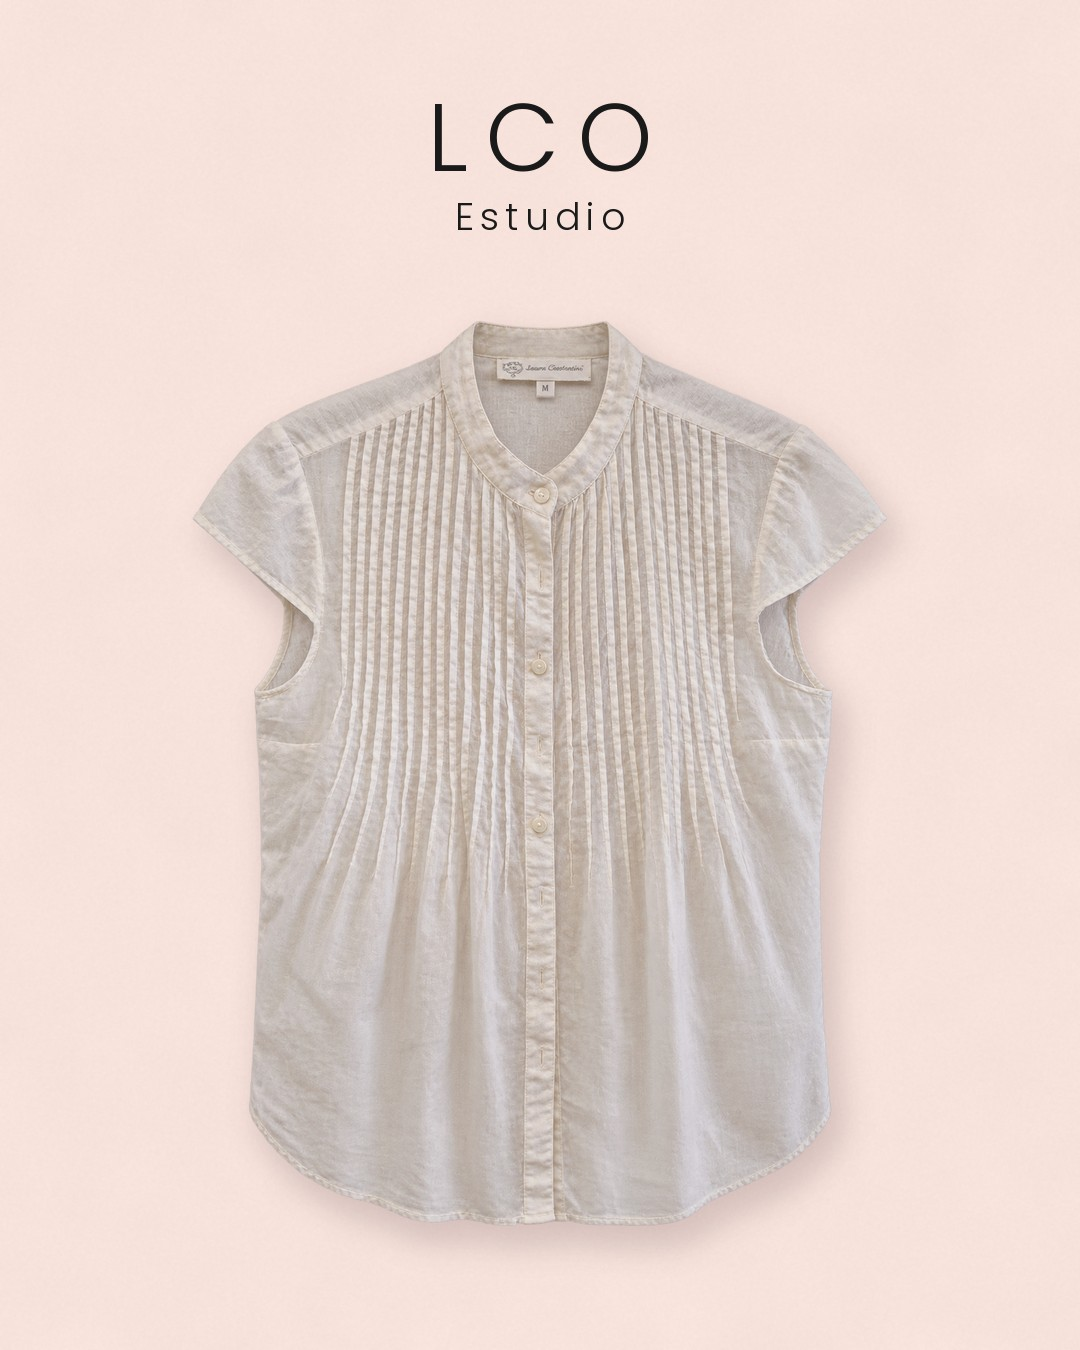
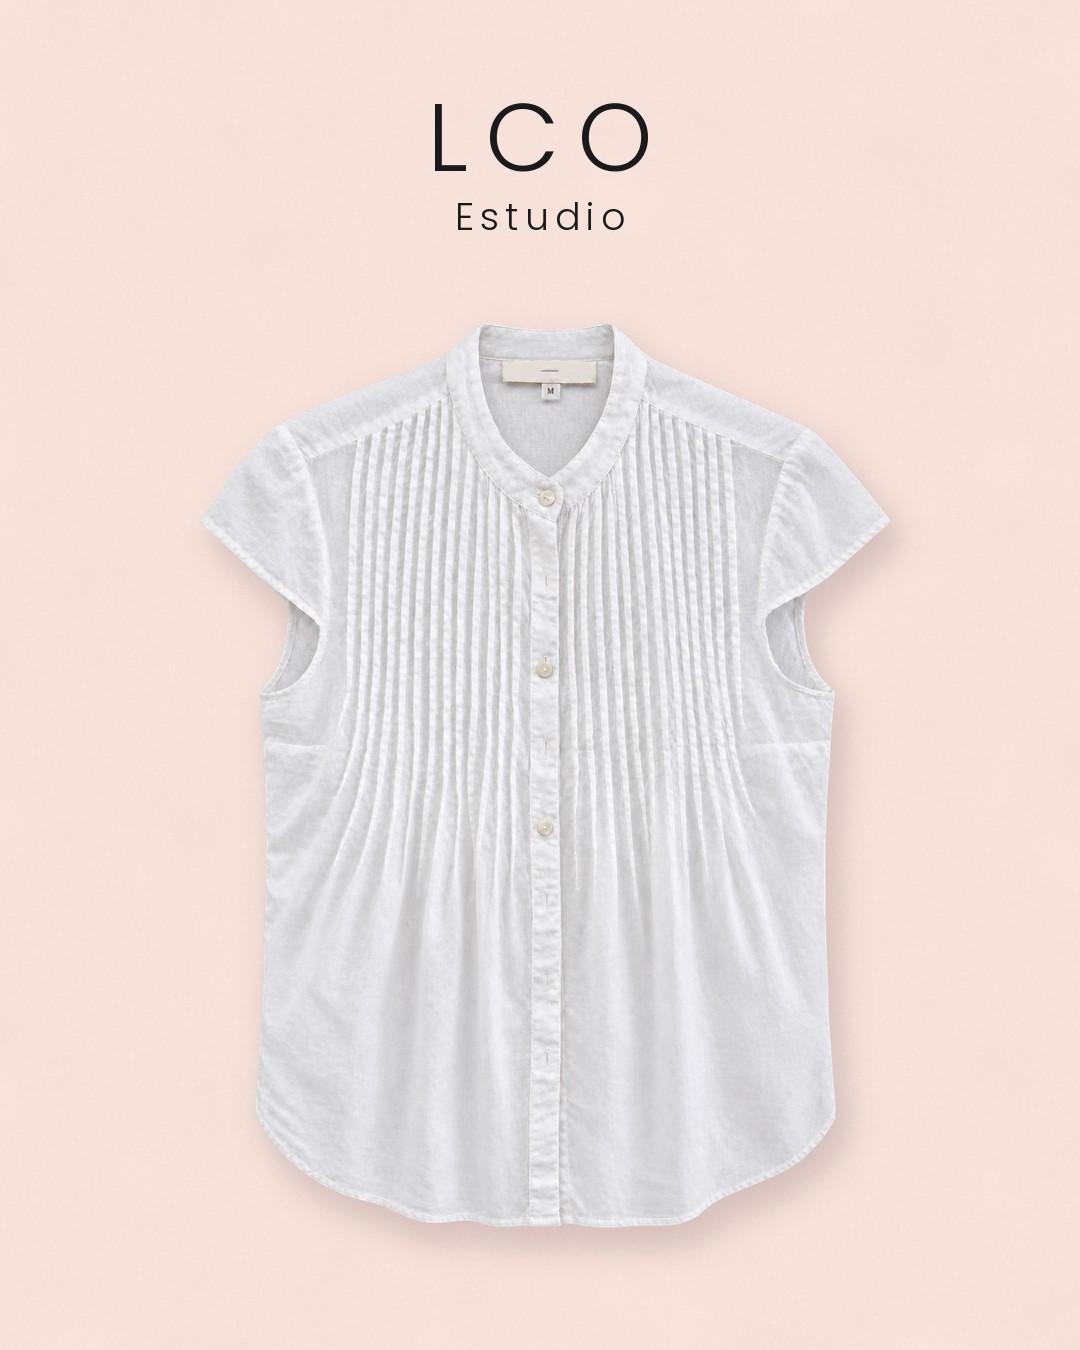
Blusa 0546: foto nueva, talle M
Claude-Session: https://claude.ai/code/session_013cVaDiVAo53umR2LYwFVAK

Changed region(s): [[0.1833, 0.2178, 0.825, 0.9333]]

diff --git a/index.html b/index.html
@@ -1175,7 +1175,7 @@ const PRODUCTOS=[
   {linea:'etiqueta',categoria:['Denim','Pantalones'],nombre:'Recto largo 7515 Olga',marca:'NAM',talle:'38 al 42',precio:29900,foto:'v/p/prenda-22.jpg',art:'0145',fecha:''},
   {linea:'etiqueta',categoria:['Denim','Pantalones'],nombre:'Mom Flora 7511 · celeste y negro',marca:'NAM',talle:'38 al 42',precio:29900,foto:'v/p/prenda-19.jpg',art:'0134',fecha:''},
   {linea:'etiqueta',categoria:['Denim','Camperas y abrigos'],nombre:'Campera de jean bordada',marca:'RO',talle:'M/L',precio:35000,foto:'v/p/prenda-15.jpg',art:'0225',fecha:''},
-  {linea:'circular',categoria:'Camisas y blusas',nombre:'Blusa blanca con alforzas y cuello mao',marca:'Laura Costantino',talle:'XS',precio:19900,foto:'v/p/blusa-0546.jpg',art:'0546',fecha:'2026-11-25'},
+  {linea:'circular',categoria:'Camisas y blusas',nombre:'Blusa blanca con alforzas y cuello mao',marca:'',talle:'M',precio:19900,foto:'v/p/blusa-0546.jpg',art:'0546',fecha:'2026-11-25'},
   {linea:'circular',categoria:'Shorts',nombre:'Bermuda de vestir azul con pinzas',marca:'Zara',talle:'S',precio:18900,foto:'v/p/bermuda-0280.jpg',art:'0280',fecha:'2026-11-25'},
   {linea:'circular',categoria:'Camisas y blusas',nombre:'Kimono de satén azul noche con grullas',marca:'Forever 21',talle:'',precio:34900,foto:'v/p/kimono-0130.jpg',art:'0130',fecha:'2026-11-24'},
   {linea:'circular',categoria:'Vestidos y polleras',nombre:'Pollera de lentejuelas',marca:'',talle:'38',precio:9900,foto:'v/p/prenda-16.jpg',art:'0124',fecha:''},
